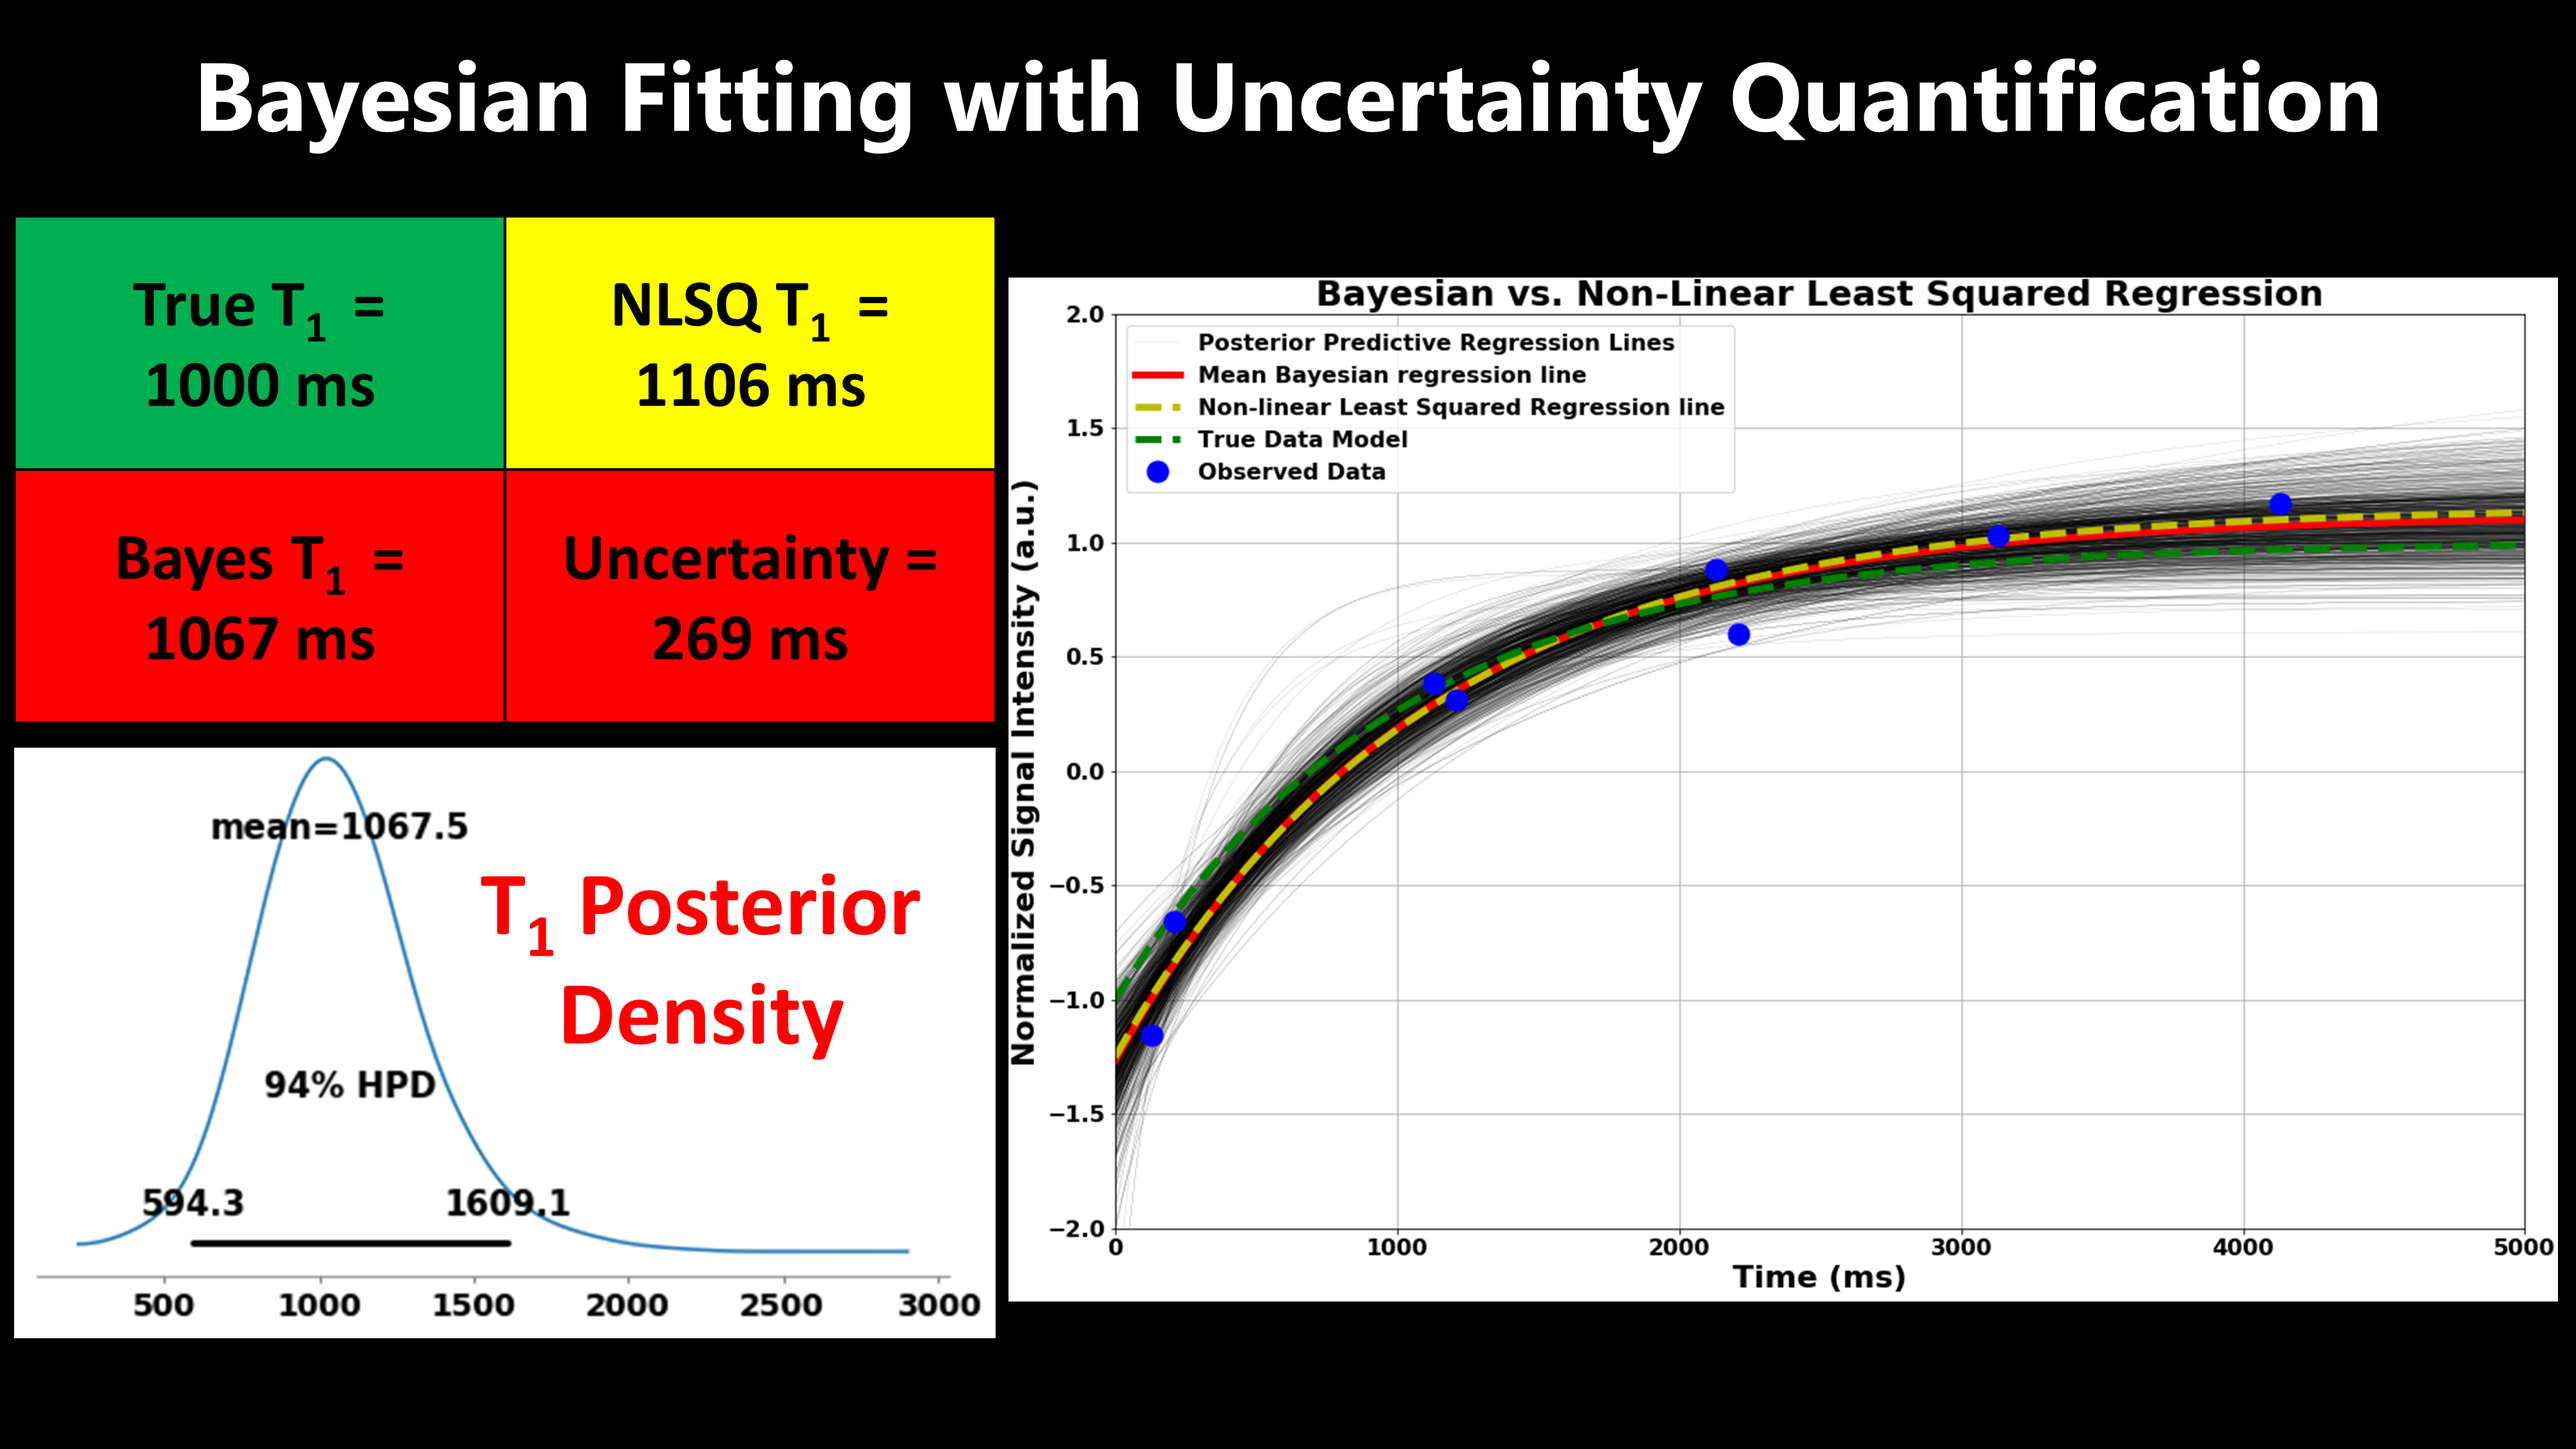
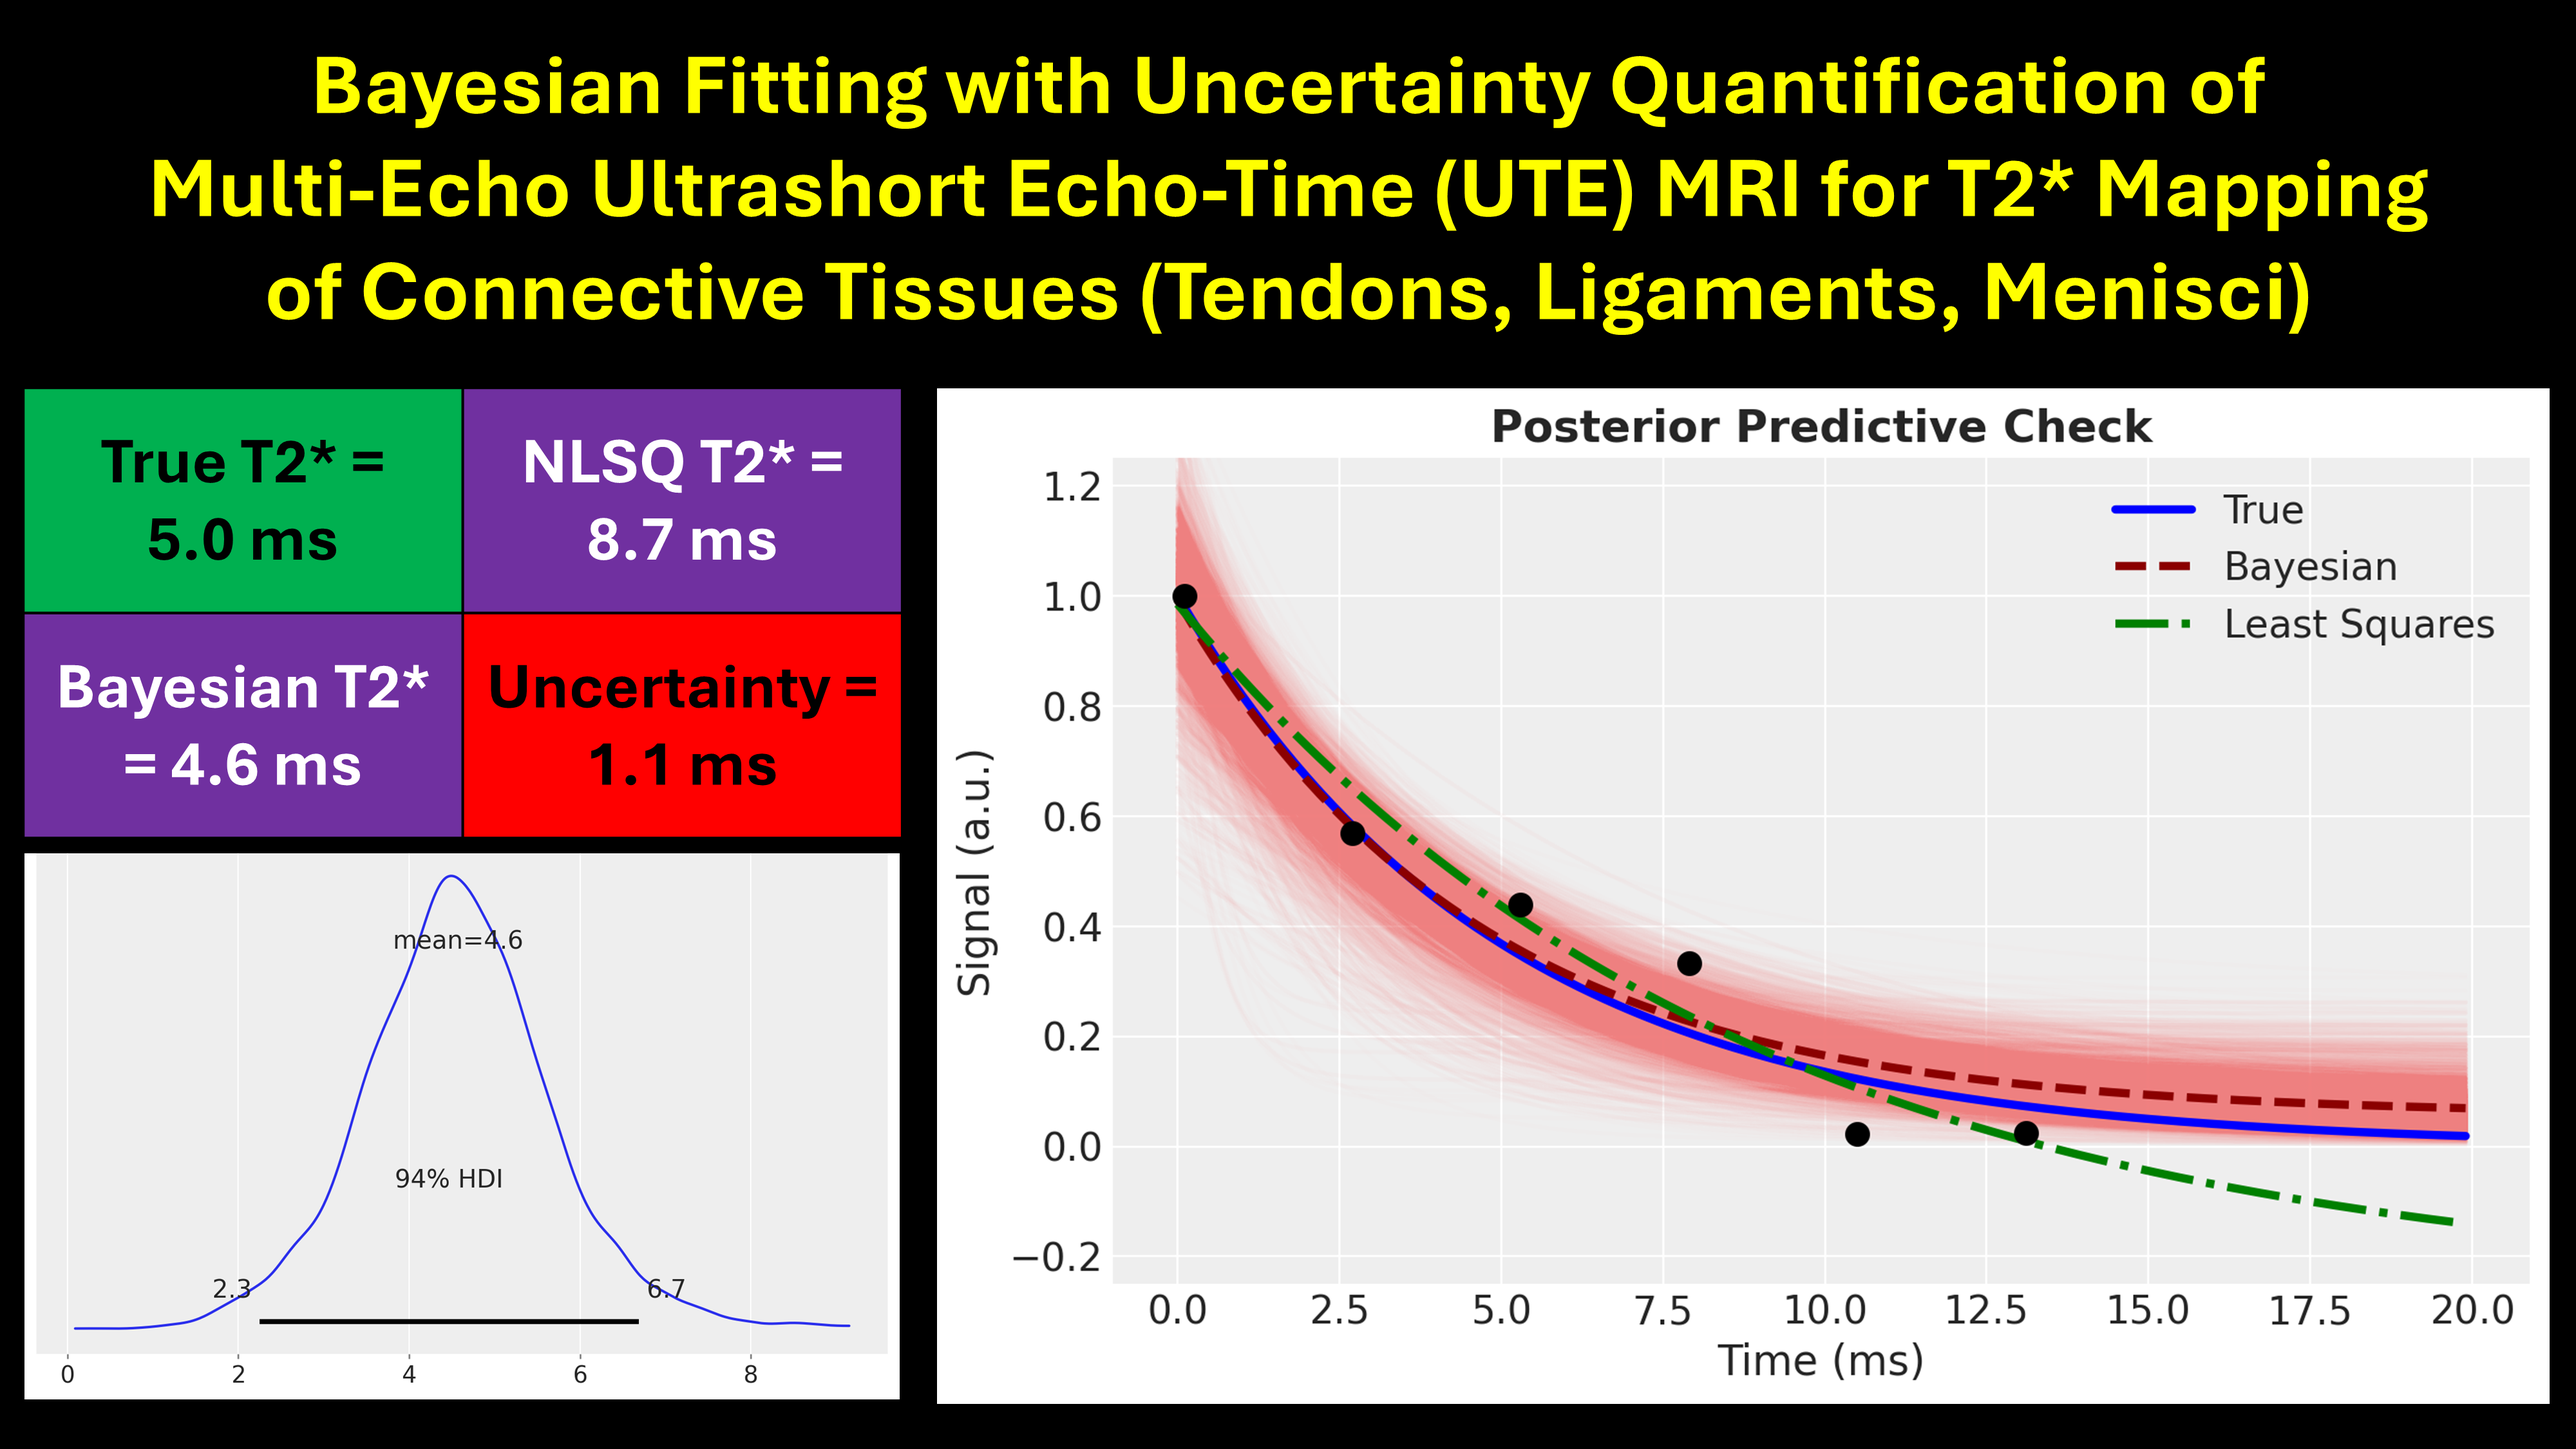
added GIF

diff --git a/_projects/canon_4_bayes.md b/_projects/canon_4_bayes.md
@@ -15,12 +15,30 @@ substack: true
 > 
 > Additionally, it is natural to incorporate prior knowledge into the Bayesian framework that in turn helps improve the accuracy and precision of qMRI measurements, especially in low signal-to-noise ratio (SNR) scenarios due to scan time acceleration.
 
-# Work-in-progress
+# Work-in-progress (WIP)
 
 Stay tuned for updates!
 
+# WIP-1: Ultrashort Echo Time (UTE) T2* mapping
+
 <figure>
-  <img src="/assets/proj/canon_4_bayes/canon_4_bayes_thumbnail.png" alt="MRI-DLR 1.5T vs. 3T" style="max-width: 100%; height: auto;">
+  <img src="/assets/proj/canon_2_ute/ute_t2star_decay.gif" alt="UTE k-space" style="max-width: 100%; height: auto;">
+  <figcaption style="font-size: 0.85em; font-style: italic; text-align: center;">T2* decay of typical musculoskeletal tissues and Echo times (TEs) of the UTE sequence.</figcaption>
+</figure>
+
+<figure>
+  <img src="/assets/proj/canon_2_ute/ute_kspace.gif" alt="UTE k-space" style="max-width: 100%; height: auto;">
+  <figcaption style="font-size: 0.85em; font-style: italic; text-align: center;">K-space trajectories of UTE MRI.</figcaption>
+</figure>
+
+<figure>
+  <img src="/assets/proj/canon_4_bayes/canon_4_bayes_thumbnail.png" alt="UTE T2* mapping" style="max-width: 100%; height: auto;">
+  <figcaption style="font-size: 0.85em; font-style: italic; text-align: center;">Demonstration of Uncertainty Quantification in Quantitative Ultrashort Echo Time (UTE) T2* mapping.</figcaption>
+</figure>
+
+# WIP-2: Myocardial T1 mapping
+<figure>
+  <img src="/assets/proj/canon_4_bayes/canon_4_bayes_thumbnail_old.png" alt="Myocardial T1 mapping" style="max-width: 100%; height: auto;">
   <figcaption style="font-size: 0.85em; font-style: italic; text-align: center;">Demonstration of Uncertainty Quantification in Quantitative Myocardial T1 mapping.</figcaption>
 </figure>
 

diff --git a/_posts/2026-02-27-aomp-001-q.md b/_posts/2026-02-27-aomp-001-q.md
@@ -45,7 +45,12 @@ Although used to create the first ever MRI image, the radial MRI acquisition sch
 
 With the improvement in hardware and reconstruction algorithms, radial MRI has been gaining more attention in recent years for its potential to provide high-quality images with reduced artifacts, especially in applications such as free-breathing, free-running 3D/4D/5D cardiac imaging and liver imaging. Radial MRI is perfectly suited for these applications because of its inherent robustness to motion artifacts as well as its ability to provide navigation information for motion correction and reconstruction.
 
-Clinically, radial MRI has been used in liver MRI to reduce motion artifacts and capture the dynamic contrast enhancement of liver lesions. It also has been used in musculoskeletal MRI to generate CT-like contrast via ultrashort echo time (UTE) and zero echo time (ZTE) imaging. 
+Clinically, radial MRI has been used in liver MRI to reduce motion artifacts and capture the dynamic contrast enhancement of liver lesions. It also has been used in musculoskeletal MRI to generate CT-like contrast via ultrashort echo time (UTE) and zero echo time (ZTE) imaging.
+
+<figure>
+  <img src="/assets/proj/canon_2_ute/ute_kspace.gif" alt="UTE k-space" style="max-width: 100%; height: auto;">
+  <figcaption style="font-size: 0.85em; font-style: italic; text-align: center;">K-space trajectories of UTE MRI.</figcaption>
+</figure>
 
 PROPELLER/BLADE/JET MRI acquisition scheme has been widely used in clinical MRI to reduce motion artifacts. Although not strictly radial, the PROPELLER/BLADE/JET acquires k-space data in a rotating-blade fashion, leading to the similar artifacts as in radial MRI.
 

diff --git a/_projects/canon_2_ute.md b/_projects/canon_2_ute.md
@@ -13,6 +13,17 @@ substack: true
 > 
 > This reduces cost, streamlines clinical workflow, and eliminates ionizing radiation exposure, especially important for pediatric and pregnant patients and for individuals requiring repeated CT imaging.
 
+<figure>
+  <img src="/assets/proj/canon_2_ute/ute_t2star_decay.gif" alt="UTE k-space" style="max-width: 100%; height: auto;">
+  <figcaption style="font-size: 0.85em; font-style: italic; text-align: center;">T2* decay of typical musculoskeletal tissues and Echo times (TEs) of the UTE sequence.</figcaption>
+</figure>
+
+<figure>
+  <img src="/assets/proj/canon_2_ute/ute_kspace.gif" alt="UTE k-space" style="max-width: 100%; height: auto;">
+  <figcaption style="font-size: 0.85em; font-style: italic; text-align: center;">K-space trajectories of UTE MRI.</figcaption>
+</figure>
+
+
 This work addresses **three interrelated challenges** in musculoskeletal (MSK) imaging. 
 
 # Economic trends
